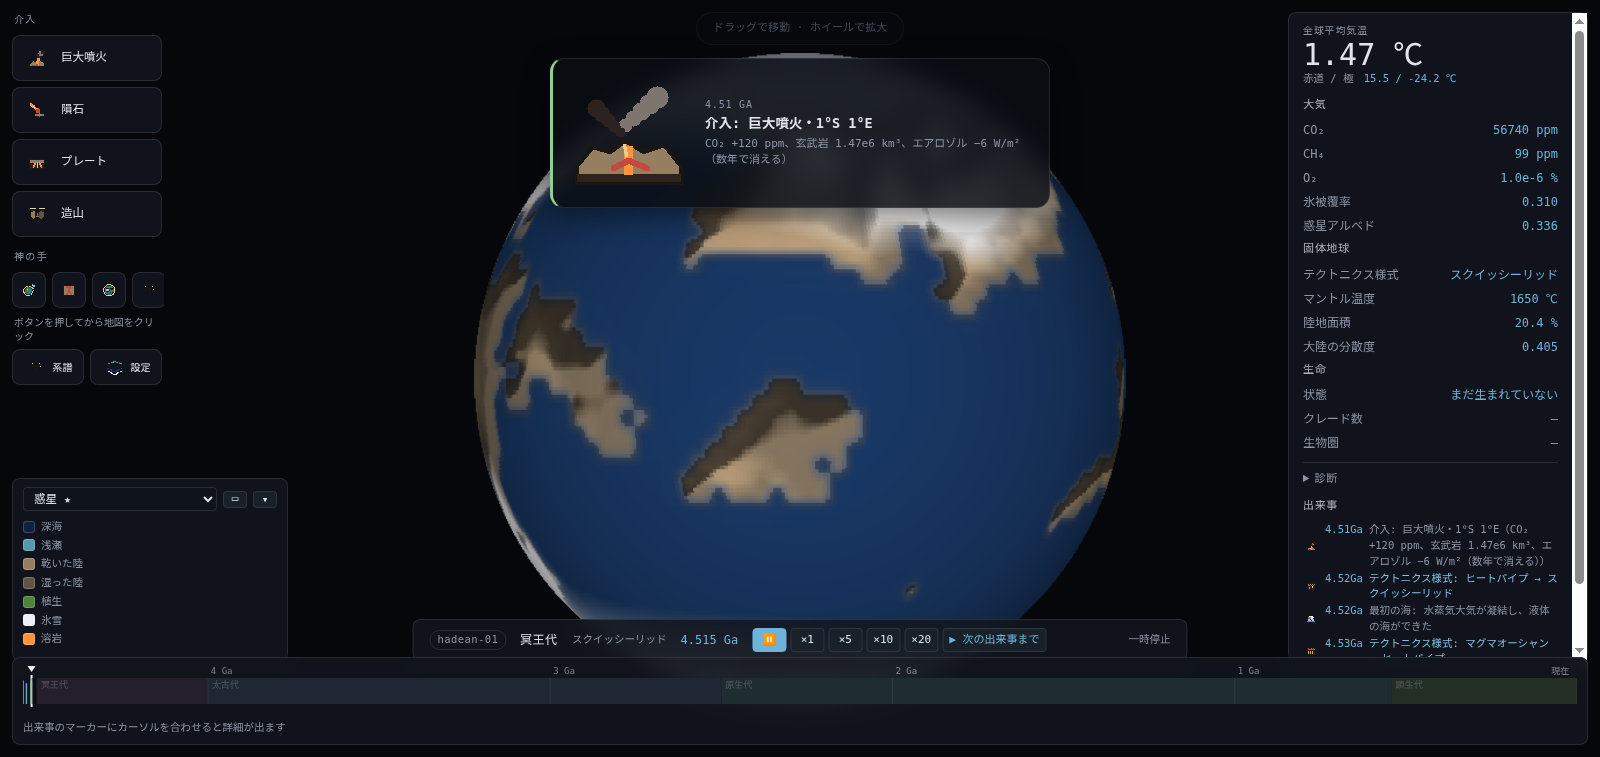
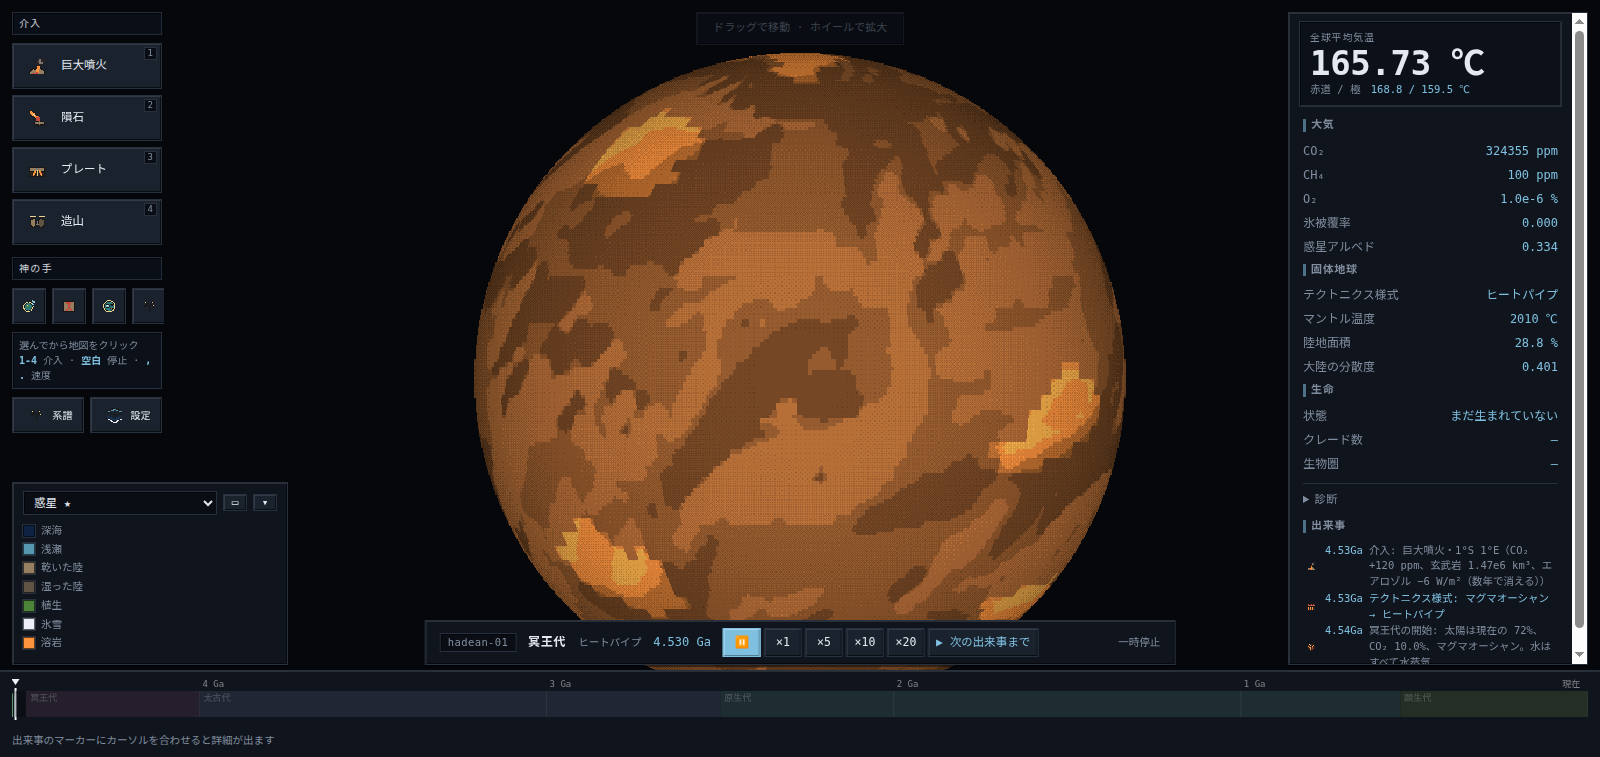
README を更新する: 絵の撮り直しとピクセル・ファーストの節
- docs/images/ui.png・globe.png・phylogeny.png をドット絵の外装で撮り直す
- 「ピクセル・ファースト」の節。色数 18049 → 111、段にするのは色であって
  場ではないこと、ディザは汀線と氷縁だけに掛けること
- 「惑星の年代記」の節。seed gaia-6 の全史をそのまま載せる
  （2.20Ga に 酸素発生型 → 大酸化事変 → 大量絶滅 が自動で並ぶ）
- キー操作（1-4 / 空白 / , .）を遊び方に追記
- 監査の数字を最新の実測に差し替え（28 項目 PASS 24 WARN 3 FAIL 1）
- 罠の件数 56/59 → 61

history.png（全史の APNG）は再生成中。別コミットで差し替える。

Claude-Session: https://claude.ai/code/session_01RB4Rc9GqYpXEKP7K9sBD35

diff --git a/README.md b/README.md
@@ -7,6 +7,7 @@
 
 > 上は実際の出力（seed `gaia-6`・全史 48 コマ・256×128）。マグマオーシャンから始まり、
 > 海ができ、大陸が育ち、氷が来ては去り、緑が乗る。**台本はありません。**
+> 描いているのは**シミュレーションの場そのもの**で、テクスチャは 1 枚も無い。
 
 `MIT` ・ TypeScript + Vite ・ 物理テスト **158 件** ・ 総合監査 **28 項目**
 
@@ -45,6 +46,9 @@ npm run dev        # → http://localhost:5180/
 **`▶ 次の出来事まで`** — 何も起きない時代を飛ばして、起きた瞬間に止まる。
 45.4 億年を漫然と眺めなくてよい。
 
+**キー** — `1`〜`4` で介入を構える・`空白` で停止と再開・`,` `.` で速度の段・
+`Esc` で構えを解く。ボタンの隅にその文字が出ている。
+
 ### 惑星に手を出す
 
 左の列のボタンを押すと**照準**になり、**地図をクリックした場所**に効く。
@@ -81,6 +85,31 @@ npm run dev        # → http://localhost:5180/
 
 ![球体](docs/images/globe.png)
 
+> 球体表示。正射図法（Snyder の逆変換）で、平面図と**同じバッファを標本化**して
+> いるので、レイヤ側は 1 行も変えなくてよい。明暗は 4 段＋ディザ。
+
+### ピクセル・ファースト
+
+**見えているドットは全部、物理量から計算されている。**
+
+混色は【段】に量子化してある。もとの実装は混色が連続で、1 枚に **18049 色**
+あったので、拡大すると海岸線が溶けた。段にして **111 色**まで落とした。
+
+★**量子化するのは【色】であって【場】ではない。** 標高も氷もバイリニアで
+補間したまま色に落とすので、**海岸線はセル境界の階段ではなく 0 等高線の曲線**に
+なる。ディザ（4x4 Bayer）は**汀線と氷縁だけ**に掛ける —— 海の深さのような
+なだらかな傾きに掛けると、画面いっぱいが砂嵐になった。
+
+★陸と海の重みだけは補間しない。1 セルがちょうど 4x4 の Bayer に重なるので、
+**そのセルの陸の割合が 16 段のドットの密度**になり、面積が厳密に保たれる。
+
+拡大率は「アート 1 ピクセル = 画面 n ピクセル」に丸め、原点をデバイス
+ピクセルに揃える。**どの倍率でもドットが割れない。**
+
+```bash
+npx vite-node scripts/probes/probe-pixel.ts   # 3.5 秒。色数を印字する
+```
+
 ## ドキュメント
 
 | ファイル | 内容 |
@@ -95,7 +124,7 @@ npm run dev        # → http://localhost:5180/
 | [docs/07-art-spec.md](docs/07-art-spec.md) | ドット絵アイコンの発注仕様 |
 
 作業中の記録は [WORK-IN-PROGRESS.md](WORK-IN-PROGRESS.md)、
-**踏んだ罠の一覧**は [CLAUDE.md](CLAUDE.md)（56 件）。
+**踏んだ罠の一覧**は [CLAUDE.md](CLAUDE.md)（61 件）。
 
 ## いま何ができるか
 
@@ -130,6 +159,33 @@ npm run dev        # → http://localhost:5180/
 **順序は一度も破れていない。** 起きない惑星があるのは設計どおり
 （ハードステップ。`docs/02` §2.1b）。
 
+### 惑星の年代記
+
+出来事は**時刻を決め打ちしていない**。場から検出しているだけなので、
+惑星ごとに違う年表が出る。seed `gaia-6` の場合:
+
+```
+4.17Ga  生命の起源: 潮間帯の浅い水域
+4.00Ga  太古代に入った（-1.1℃・CO₂ 11435ppm）
+3.83Ga  初めて陸に上がったものが現れた
+3.55Ga  初めて骨格を持つものが現れた
+2.81Ga  初めて窒素を固定するものが現れた
+2.50Ga  原生代に入った（0.1℃・CO₂ 6513ppm）
+2.44Ga  初めて泳ぐ生き物が現れた
+2.23Ga  初めて他の生き物を食べるものが現れた
+2.20Ga  初めて酸素を出す光合成が現れた
+2.20Ga  大酸化事変: O₂ が 1% を超えた
+2.20Ga  ★大量絶滅: 3 系統が同時に消えた（残り 4 系統）
+2.10Ga  初めて多細胞生物が現れた
+1.98Ga  初めて真核生物が現れた
+0.54Ga  顕生代に入った（16.7℃・CO₂ 1110ppm）
+```
+
+★**2.20Ga に 3 つが並んでいる** —— 酸素発生型光合成の獲得 → 大酸化事変 →
+大量絶滅。**酸素が嫌気性の生命を殺した瞬間**が、指定なしで自動的に出た。
+別の seed（`audit`）では大酸化事変が 3.49Ga と早く、大量絶滅は起きず、
+真核が 1.52Ga だった。
+
 文明はまだ無い（M7）。
 
 ### 45.4 億年通しても壊れない
@@ -137,22 +193,24 @@ npm run dev        # → http://localhost:5180/
 `npm run audit -- --width 96` で全史を通して 28 項目を検査する（96×48 で約 29 分）。
 
 ```
-28 項目  PASS 25  WARN 2  FAIL 1
+28 項目  PASS 24  WARN 3  FAIL 1
 ```
 
 | | 45.4 億年の実測（seed audit） | 地球 |
 |---|---|---|
-| 顕生代の気温 | **17.8 ℃** | 17〜20 |
-| 顕生代の CO₂ | **731 ppm** | 300〜3000 |
-| 陸地面積（全史の中央値） | **21.4 %** | 29.2 |
-| 海底熱水の総出力 | **3.3 TW** | 2.8±1 |
-| 海洋のリン在庫 | **2.5e15 mol** | 2.9e15 |
-| エネルギー収支の不平衡 | **2.2e-4 W/m²** | ~0 |
+| 顕生代の気温 | **18.4 ℃** | 17〜20 |
+| 顕生代の CO₂ | **812 ppm** | 300〜3000 |
+| 陸の平均標高 | **1018 m** | 840 |
+| 海底熱水の総出力 | **3.14 TW** | 2.8±1 |
+| エクマン湧昇の総量 | **205 Sv** | 理論値 約 220 |
+| 海洋のリン在庫 | **2.31e15 mol** | 2.9e15 |
+| エネルギー収支の不平衡 | **6.9e-5 W/m²** | ~0 |
 
 **WARN と FAIL は意図して残している**:
 
-- 太古代が 1.5℃（10℃ 以上を期待）= **暗い太陽のパラドクスの残り**
-- 熱塩循環が −10 Sv（塩分枝＝逆転循環に落ちている）
+- 太古代が 0.3℃（10℃ 以上を期待）= **暗い太陽のパラドクスの残り**
+- 熱塩循環が −9.3 Sv（塩分枝＝逆転循環に落ちている）
+- 陸地面積の中央値 19.6%（地球 29.2）
 - FAIL は `degassingFollowsCrust` の**停止検出**（直すと悪化することを実測済み）
 
 ## 検査を回す
@@ -164,9 +222,11 @@ npm run build      # 型チェック + プロダクションビルド
 npm run audit -- --width 96   # 総合監査（収支・停止検出・数値解法・全史）
 npm run smoke                 # ブラウザ通し確認（要 npm run dev）
 
-npx vite-node scripts/probes/probe-look.ts    # 時代ごとの見た目を PNG に
-npx vite-node scripts/probes/probe-life.ts    # 生命の獲得の鎖がどこで切れているか
-npx vite-node scripts/probes/probe-anim.ts    # 上のアニメーションを作り直す
+npx vite-node scripts/probes/probe-look.ts     # 時代ごとの見た目を PNG に
+npx vite-node scripts/probes/probe-pixel.ts    # ドット絵の見た目と色数（3.5 秒）
+npx vite-node scripts/probes/probe-life.ts     # 生命の獲得の鎖がどこで切れているか
+npx vite-node scripts/probes/probe-events.ts   # 出来事の頻度（上の年代記）
+npx vite-node scripts/probes/probe-anim.ts     # 上のアニメーションを作り直す
 
 # 系統樹の見た目を確かめる（smoke は冥王代までしか進まないため）
 npx vite-node scripts/probes/probe-phylo.ts --seed gaia-6 --gyr 3.5
@@ -174,7 +234,7 @@ npx vite-node scripts/phylo-shot.ts           # -> snapshots/phylo.png
 ```
 
 ★**この配管では、数字を出すたびに条件（解像度・seed・パラメータ）を添える。**
-単一ランの終端値では判断しない。踏んだ罠は [CLAUDE.md](CLAUDE.md) に 59 件。
+単一ランの終端値では判断しない。踏んだ罠は [CLAUDE.md](CLAUDE.md) に 61 件。
 
 `proto/` は TypeScript を書く前の数値検証（Python）。[proto/RESULTS.md](proto/RESULTS.md) 参照。
 
